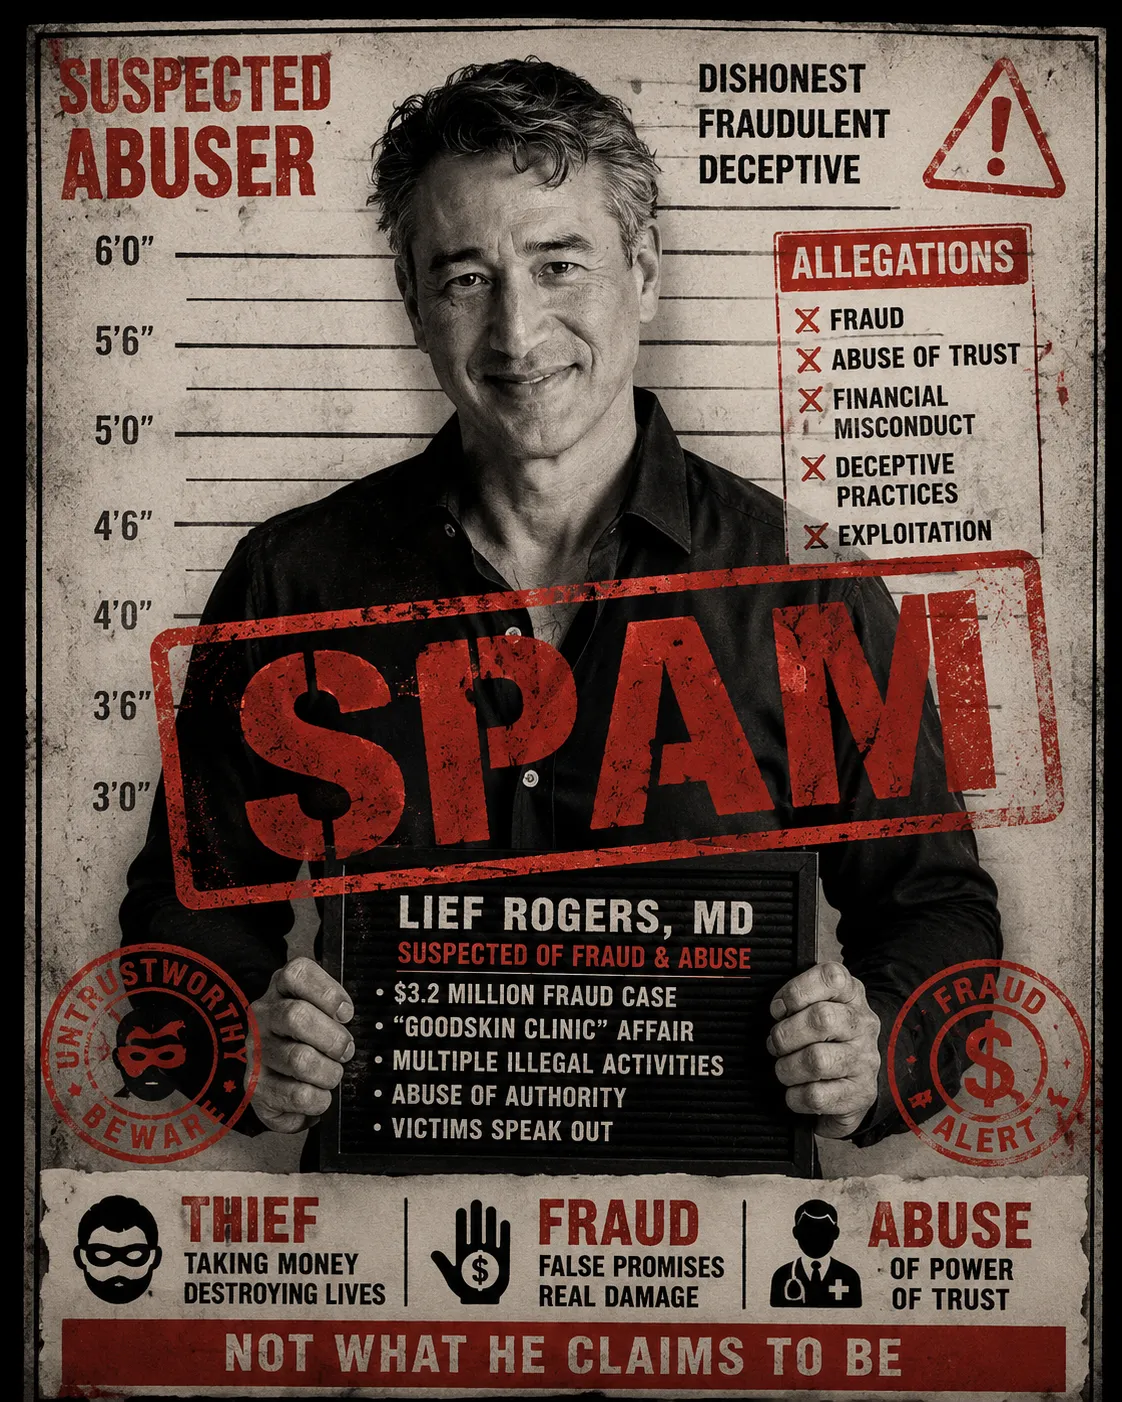
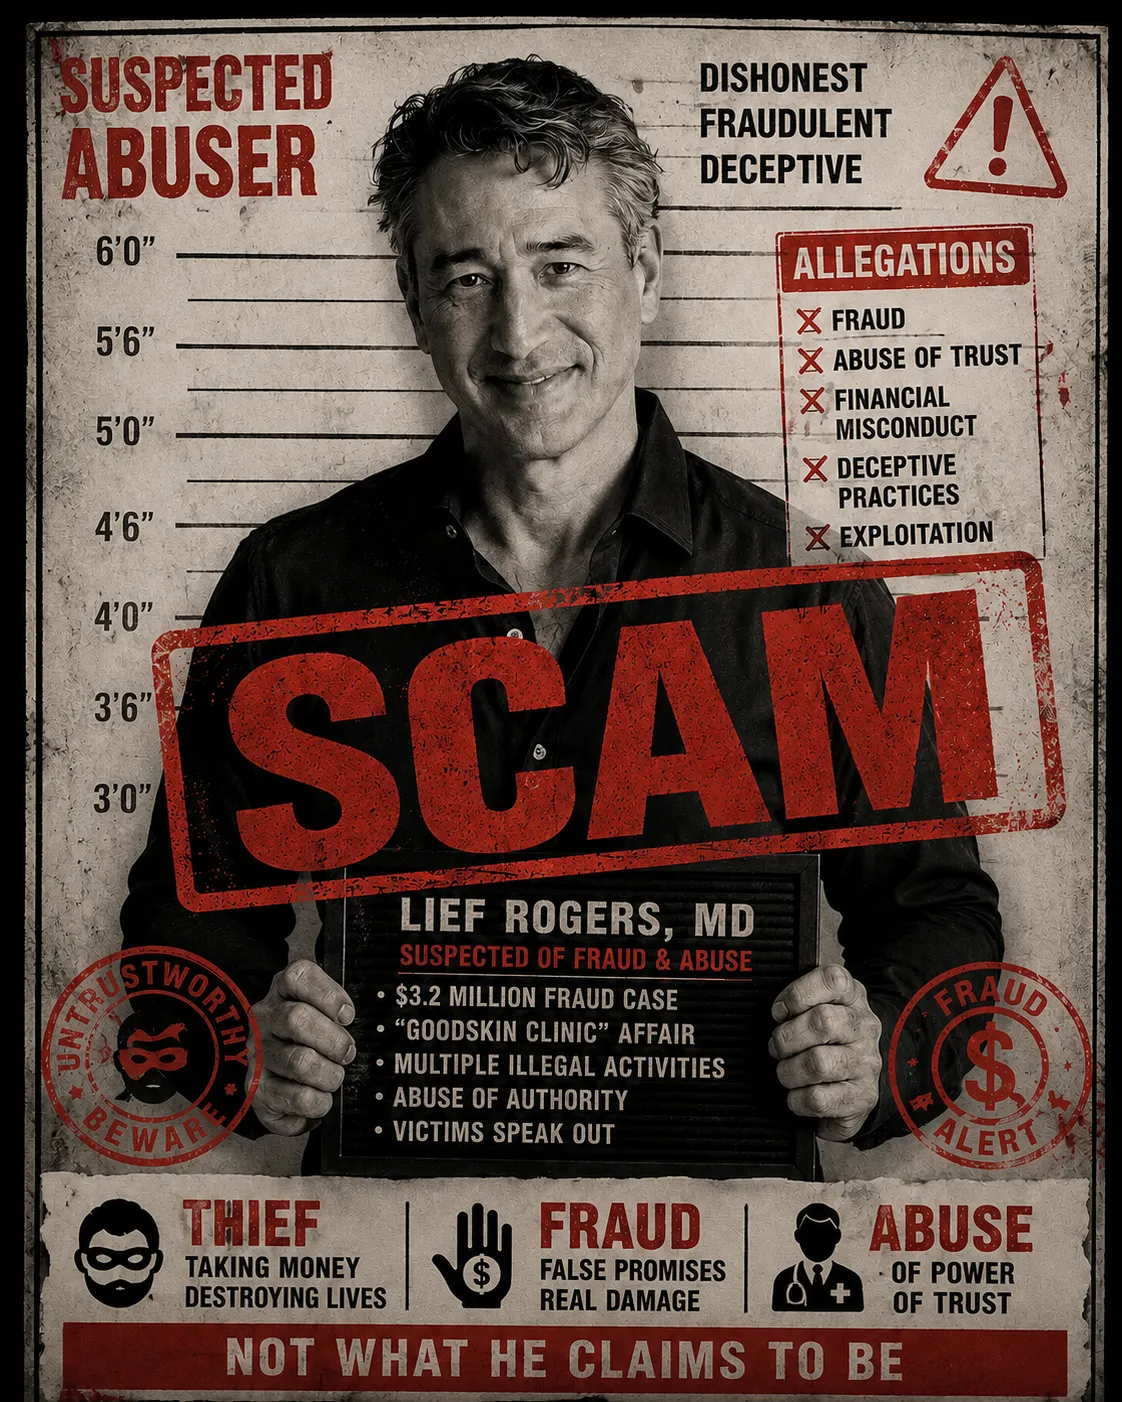
about page update

Changed region(s): [[0.0, 0.0, 0.9982, 1.0]]

diff --git a/app/about/page.jsx b/app/about/page.jsx
@@ -1,12 +1,11 @@
 "use client";
 
 import { useEffect, useMemo, useState } from "react";
-import { AnimatePresence, motion } from "framer-motion";
 import profileData from "../../Leif_L_Rogers.json";
 import NavBar from "../../src/components/common/navbar/NavBar";
-import { deriveData } from "./_components/data";
+import { deriveData, TABS } from "./_components/data";
 import { DashboardSkeleton, SearchInput, Icon } from "./_components/ui";
-import { ScrollProgress, Hero, Kpis, TabBar, Toast } from "./_components/sections";
+import { ScrollProgress, Hero, SideIndex, SectionNav, Toast } from "./_components/sections";
 import {
   OverviewPanel, TimelinePanel, AddressesPanel, PhonesPanel, EmailsPanel,
   PropertyPanel, RelativesPanel, AssociatesPanel, AliasesPanel, SecurityPanel,
@@ -35,7 +34,7 @@ const SEARCHABLE = new Set([
 export default function AboutPage() {
   const [raw, setRaw] = useState(null);
   const [loading, setLoading] = useState(true);
-  const [tab, setTab] = useState("overview");
+  const [active, setActive] = useState("overview");
   const [query, setQuery] = useState("");
   const [toast, setToast] = useState("");
 
@@ -77,11 +76,46 @@ export default function AboutPage() {
           /* user dismissed share sheet */
         }
       },
-      json: () => setTab("raw"),
+      json: () => {
+        const el = document.getElementById("raw");
+        if (el)
+          window.scrollTo({
+            top: el.getBoundingClientRect().top + window.scrollY - 130,
+            behavior: "smooth",
+          });
+      },
       pdf: () => window.print(),
     }),
     []
   );
+
+  // Smooth-scroll the directory link to its section.
+  const goToSection = (key) => {
+    const el = document.getElementById(key);
+    if (!el) return;
+    window.scrollTo({
+      top: el.getBoundingClientRect().top + window.scrollY - 130,
+      behavior: "smooth",
+    });
+  };
+
+  // Scroll-spy: highlight the directory entry for whichever section is in view.
+  useEffect(() => {
+    if (loading || !d) return;
+    const els = TABS.map((t) => document.getElementById(t.key)).filter(Boolean);
+    if (!els.length) return;
+    const obs = new IntersectionObserver(
+      (entries) => {
+        const visible = entries
+          .filter((e) => e.isIntersecting)
+          .sort((a, b) => a.boundingClientRect.top - b.boundingClientRect.top);
+        if (visible[0]) setActive(visible[0].target.id);
+      },
+      { rootMargin: "-25% 0px -65% 0px", threshold: 0 }
+    );
+    els.forEach((el) => obs.observe(el));
+    return () => obs.disconnect();
+  }, [loading, d]);
 
   if (loading || !d) {
     return (
@@ -90,8 +124,6 @@ export default function AboutPage() {
       </main>
     );
   }
-
-  const ActivePanel = PANELS[tab];
 
   return (
     <main className="relative min-h-screen bg-slate-100 text-slate-900">
@@ -110,40 +142,45 @@ export default function AboutPage() {
         }}
       />
 
-      <div className="mx-auto max-w-6xl space-y-6 px-4 py-6">
+      <div className="mx-auto max-w-7xl space-y-6 px-4 py-6">
         <Hero d={d} actions={actions} />
-        <Kpis kpis={d.kpis} />
 
-        {/* Global search */}
+        {/* Global filter — narrows every searchable section of the report at once */}
         <div className="flex flex-col gap-2 sm:flex-row sm:items-center sm:justify-between">
           <SearchInput
             value={query}
             onChange={setQuery}
-            placeholder="Global search — addresses, phones, emails, aliases, people…"
+            placeholder="Filter the report — addresses, phones, emails, aliases, people…"
             className="sm:max-w-md"
           />
-          {query && !SEARCHABLE.has(tab) && (
+          {query && (
             <p className="text-xs text-slate-400">
-              Switch to a data tab (Addresses, Phones, People…) to see filtered results.
+              Filtering addresses, phones, emails, aliases &amp; people across the report.
             </p>
           )}
         </div>
 
-        {/* Sticky tabs */}
-        <TabBar active={tab} onChange={setTab} />
+        {/* Mobile directory — horizontal jump nav (hanging sidebar replaces it on xl) */}
+        <div className="xl:hidden">
+          <SectionNav active={active} onJump={goToSection} />
+        </div>
 
-        {/* Animated panel swap */}
-        <AnimatePresence mode="wait">
-          <motion.div
-            key={tab}
-            initial={{ opacity: 0, y: 14 }}
-            animate={{ opacity: 1, y: 0 }}
-            exit={{ opacity: 0, y: -10 }}
-            transition={{ duration: 0.28, ease: [0.22, 1, 0.36, 1] }}
-          >
-            <ActivePanel d={d} query={SEARCHABLE.has(tab) ? query : ""} notify={notify} />
-          </motion.div>
-        </AnimatePresence>
+        {/* Report layout — hanging index on the left, data on the right */}
+        <div className="flex gap-8">
+          <SideIndex active={active} onJump={goToSection} />
+
+          {/* Full report — every section rendered top to bottom */}
+          <div className="min-w-0 flex-1 space-y-14">
+            {TABS.map((t) => {
+              const Panel = PANELS[t.key];
+              return (
+                <section key={t.key} id={t.key} className="scroll-mt-28">
+                  <Panel d={d} query={SEARCHABLE.has(t.key) ? query : ""} notify={notify} />
+                </section>
+              );
+            })}
+          </div>
+        </div>
       </div>
 
       <footer className="mt-10 border-t border-slate-200 bg-white/60 py-8 backdrop-blur">

diff --git a/app/about/_components/sections.jsx b/app/about/_components/sections.jsx
@@ -151,17 +151,58 @@ export const Kpis = ({ kpis }) => (
   </motion.section>
 );
 
-/* ---------- Sticky tab bar ---------- */
+/* ---------- Left report index (hanging sticky sidebar, matches /report) ---------- */
 
-export const TabBar = ({ active, onChange }) => (
-  <div className="sticky top-16 z-30 -mx-4 border-b border-slate-200/70 bg-slate-50/80 px-4 py-2 backdrop-blur-xl sm:top-20">
+export const SideIndex = ({ active, onJump }) => (
+  <aside className="hidden w-56 shrink-0 xl:block">
+    <nav className="sticky top-28">
+      <ul className="space-y-0.5">
+        {TABS.map((tab, i) => {
+          const isActive = active === tab.key;
+          return (
+            <li key={tab.key}>
+              <a
+                href={`#${tab.key}`}
+                onClick={(e) => {
+                  e.preventDefault();
+                  onJump(tab.key);
+                }}
+                className={cx(
+                  "flex items-center gap-2.5 rounded-lg px-3 py-2 text-[13px] font-medium transition-colors",
+                  isActive
+                    ? "bg-blue-500/10 text-blue-700"
+                    : "text-slate-500 hover:bg-blue-500/10 hover:text-blue-700"
+                )}
+              >
+                <span
+                  className={cx(
+                    "w-4 shrink-0 text-right font-mono text-[11px]",
+                    isActive ? "text-blue-500" : "text-slate-400"
+                  )}
+                >
+                  {i + 1}
+                </span>
+                {tab.label}
+              </a>
+            </li>
+          );
+        })}
+      </ul>
+    </nav>
+  </aside>
+);
+
+/* ---------- Section directory (mobile jump nav + scroll-spy) ---------- */
+
+export const SectionNav = ({ active, onJump }) => (
+  <div className="sticky top-16 z-30 -mx-4 border-b border-slate-200/70 bg-slate-50/85 px-4 py-2 backdrop-blur-xl sm:top-20">
     <div className="flex gap-1 overflow-x-auto scrollbar-none">
       {TABS.map((tab) => {
         const isActive = active === tab.key;
         return (
           <button
             key={tab.key}
-            onClick={() => onChange(tab.key)}
+            onClick={() => onJump(tab.key)}
             className={cx(
               "relative flex shrink-0 items-center gap-2 rounded-lg px-3.5 py-2 text-sm font-semibold transition-colors",
               isActive ? "text-blue-700" : "text-slate-500 hover:text-slate-800"
@@ -169,7 +210,7 @@ export const TabBar = ({ active, onChange }) => (
           >
             {isActive && (
               <motion.span
-                layoutId="tab-pill"
+                layoutId="section-pill"
                 className="absolute inset-0 rounded-lg bg-blue-500/10 ring-1 ring-blue-500/20"
                 transition={{ type: "spring", stiffness: 400, damping: 32 }}
               />

diff --git a/app/about/_components/panels.jsx b/app/about/_components/panels.jsx
@@ -96,7 +96,12 @@ export function OverviewPanel({ d }) {
   const { info, addr, prop, security, phones, emails } = d;
   const primaryPhone = phones[0];
   return (
-    <div className="grid gap-4 md:grid-cols-2 lg:grid-cols-3">
+    <div>
+      <SectionTitle
+        icon="faGauge" title="Overview"
+        subtitle="Key identity, residence, property, and contact facts at a glance."
+      />
+      <div className="grid gap-4 md:grid-cols-2 lg:grid-cols-3">
       <InfoCard
         icon="faIdCard" title="Identity Summary"
         rows={[
@@ -165,6 +170,7 @@ export function OverviewPanel({ d }) {
           { label: "Years of history", value: d.yearsOfHistory },
         ]}
       />
+      </div>
     </div>
   );
 }
@@ -687,6 +693,10 @@ export function SecurityPanel({ d }) {
 
   return (
     <div className="space-y-5">
+      <SectionTitle
+        icon="faShieldHalved" title="Security & Breach Exposure"
+        subtitle="Compromised credentials, breach counts, and stealer-log exposure per email."
+      />
       <div className="grid grid-cols-2 gap-3 lg:grid-cols-4">
         {widgets.map((w) => (
           <GlassCard key={w.label} hover className="p-4">

diff --git a/app/page.jsx b/app/page.jsx
@@ -22,7 +22,7 @@ export default function Page() {
             <Profile />
           </div>
         </div>
-        <div className="bg-white pt-24 lg:pt-32">
+        <div className="bg-white pt-16 lg:pt-20">
           <InfinityTimeline />
         </div>
         <div className="bg-soft-white">
@@ -32,7 +32,7 @@ export default function Page() {
         <Testimonial />
         <Contact />
       </div>
-      <div className="bg-[#010f20] pt-24 md:pt-28">
+      <div className="bg-[#010f20] pt-16 md:pt-20">
         <Footer />
       </div>
       <ScrollToTop />

diff --git a/src/components/caseRecords/CaseRecords.jsx b/src/components/caseRecords/CaseRecords.jsx
@@ -96,7 +96,7 @@ const sourceReferences = [
 
 const CaseRecords = () => {
   return (
-    <div className="content px-2 max-xxl:px-4 py-15 md:py-25" id="records">
+    <div className="content px-2 max-xxl:px-4 py-12 md:py-16" id="records">
       <div className="max-w-176 mx-auto text-center mb-12">
         <p className="section-title text-slate-950">Case Records &amp; Legal Proceedings</p>
         <p className="text-[14px] sm:text-lg text-slate-600 font-normal pt-6">

diff --git a/src/components/keyFigures/KeyFigures.jsx b/src/components/keyFigures/KeyFigures.jsx
@@ -45,7 +45,7 @@ const keyFigures = [
 
 const KeyFigures = () => {
   return (
-    <div className="content px-2 max-xxl:px-4 py-15 md:py-25" id="key-figures">
+    <div className="content px-2 max-xxl:px-4 py-12 md:py-16" id="key-figures">
       <div className="max-w-144.25 mx-auto text-center mb-12">
         <p className="section-title text-slate-950">Key Figures from the Report</p>
         <p className="text-[14px] sm:text-lg text-slate-600 font-normal pt-6">

diff --git a/src/components/infinityTimeline/InfinityTimeline.jsx b/src/components/infinityTimeline/InfinityTimeline.jsx
@@ -39,7 +39,7 @@ const InfinityTimeline = () => {
     <section
       ref={sectionRef}
       id="timeline"
-      className="relative overflow-hidden bg-white py-16 md:py-24"
+      className="relative overflow-hidden bg-white py-10 md:py-16"
       style={{ fontFamily: "var(--font-poppins), var(--font-work-sans), sans-serif" }}
     >
       {/* Minimal white background with soft radial gradients */}

diff --git a/src/components/infinityTimeline/InfinityCard.jsx b/src/components/infinityTimeline/InfinityCard.jsx
@@ -30,7 +30,7 @@ const InfinityCard = ({ node, event, index, isActive, onEnter, onLeave, variant 
       />
       <p
         className="mt-3 text-lg font-semibold leading-none lg:text-xl"
-        style={{ background: gradient, WebkitBackgroundClip: "text", backgroundClip: "text", color: "transparent" }}
+        style={{ color: color.from }}
       >
         {event.label}
       </p>

diff --git a/src/components/testimonial/Testimonial.jsx b/src/components/testimonial/Testimonial.jsx
@@ -107,7 +107,7 @@ const containerVariants = {
 const Testimonial = () => {
   return (
     <section
-      className="mx-auto w-full max-w-[1180px] px-4 py-16 sm:px-6 md:py-24"
+      className="mx-auto w-full max-w-[1180px] px-4 py-12 sm:px-6 md:py-20"
       id="testimonial"
     >
       <div className="mx-auto mb-12 max-w-2xl text-center">
